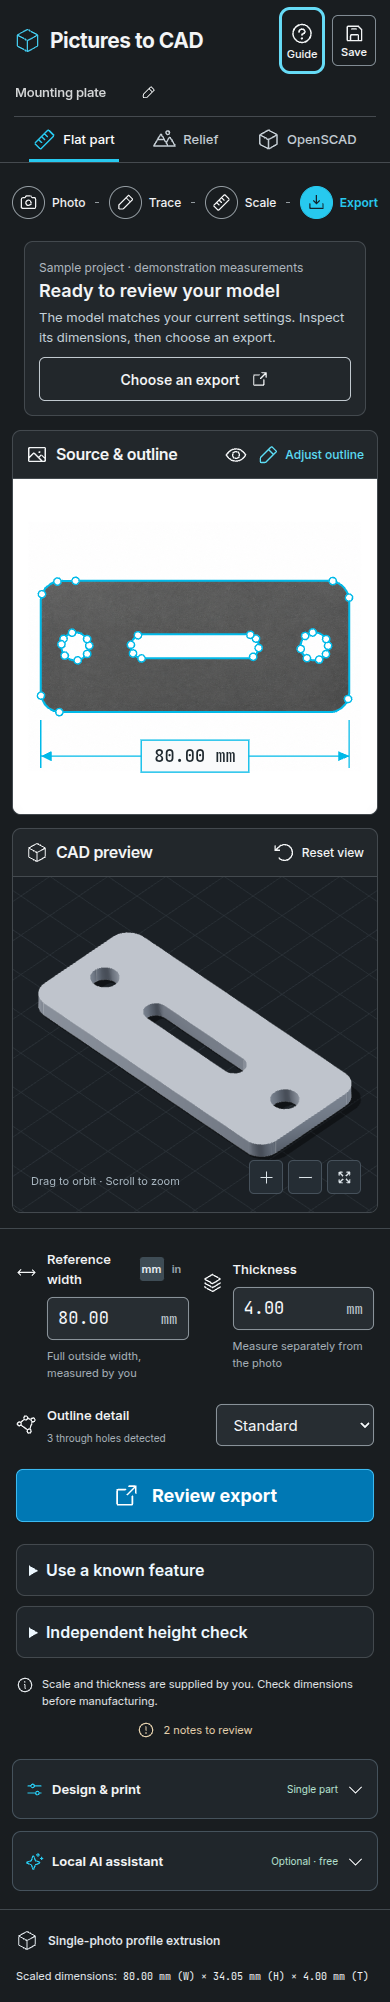
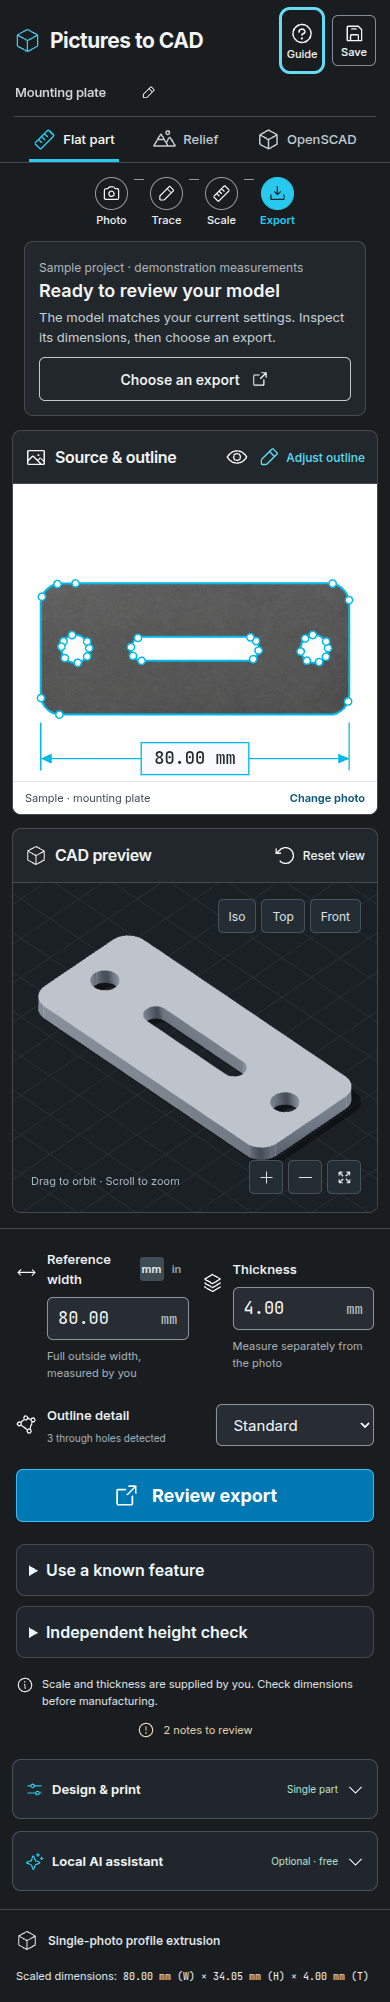
Stop the narrowest phones scrolling sideways
At 320 px the step bar ran 18 px past the screen and the source panel's
Adjust outline button 6 px past its panel. At 400 px and below, step labels
sit under their icons and panel toolbars wrap. The phone-layout scenario
checks 320 and 360 px for any element past the screen edge; it fails on the
previous stylesheet and passes with the fix.

diff --git a/tests/e2e/workbench.spec.ts b/tests/e2e/workbench.spec.ts
@@ -198,6 +198,27 @@ test('keyboard dialogs, accessibility checks, and mobile layout keep the workflo
     true,
   );
   await page.screenshot({ path: 'docs/images/workbench-mobile.png', fullPage: true });
+  // On the narrowest phones nothing may run past the screen edge, even where a panel
+  // would clip it: the step bar puts labels under icons and toolbars wrap. The 3D canvas
+  // follows the window a frame later, so the check polls until the layout settles.
+  for (const width of [320, 360]) {
+    await page.setViewportSize({ width, height: 800 });
+    await expect
+      .poll(
+        () =>
+          page.evaluate(() =>
+            [...document.querySelectorAll('body *')]
+              .filter(
+                (e) =>
+                  e.getClientRects().length && e.getBoundingClientRect().right > innerWidth + 0.5,
+              )
+              .map((e) => `${e.tagName}.${e.getAttribute('class') ?? ''}`),
+          ),
+        { message: `elements past the edge at ${width}px` },
+      )
+      .toEqual([]);
+  }
+  await page.setViewportSize({ width: 390, height: 844 });
   await page.getByRole('button', { name: 'Review export', exact: true }).click();
   await expect(page.getByRole('dialog')).toBeVisible();
   expect(await page.evaluate(() => document.documentElement.scrollWidth <= window.innerWidth)).toBe(

diff --git a/frontend/src/styles.css b/frontend/src/styles.css
@@ -2577,3 +2577,27 @@ main {
   font-weight: 600;
   cursor: pointer;
 }
+/* The narrowest phones: each step's label goes under its icon so the four steps fit. */
+@media (max-width: 400px) {
+  .workflow {
+    gap: 6px;
+  }
+  .workflow-step {
+    flex-direction: column;
+    gap: 3px;
+    font-size: 11px;
+  }
+  .step-line {
+    width: 10px;
+    align-self: flex-start;
+    margin-top: 16px;
+  }
+  /* Panel toolbars wrap their actions onto a second line rather than run off the panel. */
+  .panel-toolbar {
+    height: auto;
+    min-height: 52px;
+    flex-wrap: wrap;
+    row-gap: 4px;
+    padding: 8px 12px;
+  }
+}

diff --git a/docs/validation.md b/docs/validation.md
@@ -1,12 +1,20 @@
 # Validation results
 
+## Narrowest phones no longer scroll sideways — November 15, 2026
+
+Frontend CSS only.
+
+- **Measured** with a script on the workbench and the relief studio at 320, 340, 360, 375, 400 and 414 px. Before: at 320 px the step bar's active step reached 338 px and the source panel's **Adjust outline** reached 326 px. After: no element extends past the screen at any of these widths.
+- **Browser:** the phone-layout scenario now checks 320 and 360 px for any element past the screen edge. It polls, because the 3D canvas follows a resize a frame later. With the previous stylesheet it fails, naming the step bar and the panel actions; with the fix it passes. All **83 Chrome scenarios** passed against a dedicated server in 8.4 minutes (1 skipped: it needs the downloaded AI depth model), and `make lint` passed.
+- **Screenshot:** `docs/images/workbench-mobile.png` (390 px) now shows the step labels under their icons.
+
 ## One header, a sample gallery and automatic relief updates — November 15, 2026
 
 Frontend only; no backend code changed.
 
 - **Browser:** all **83 Chrome scenarios** passed against a dedicated server in 7.1 minutes (1 skipped: it needs the downloaded AI depth model). Two scenarios are new. One checks both studios' header at 1920, 1366, 1280, 1251, 1100, 1001, 800 and 375 px: no header overflow, the project name not clipped, every header link and button showing a visible text label, the current studio marked, the sample gallery's four cards and captions, the thumbnails loaded, and axe WCAG 2.1 AA. The other answers the first relief request with a 429 and `Retry-After: 1`, and checks that the page waits, retries once and builds without an error.
 - **Changed scenarios:** the moon-sample scenario now edits Thickest and waits for the automatic rebuild instead of pressing **Update model**. It also checks that the superseded model's `DELETE` returns 204. The elevation scenario checks that a rejected exaggeration is requested exactly once in a 2 s wait, and that **Update model** stays available.
-- **Header measurement** before the fix: at 800 px the workbench name read "Mounti…", and with the first version of the tabs it was clipped at 1100–1440 px and again at 1251 px. A measuring script found no clipping or overflow at 18 widths from 2560 to 375 px after the fix. The workflow stepper below the header still overflows by 18 px at 320 px; that is unchanged by this work.
+- **Header measurement** before the fix: at 800 px the workbench name read "Mounti…", and with the first version of the tabs it was clipped at 1100–1440 px and again at 1251 px. A measuring script found no clipping or overflow at 18 widths from 2560 to 375 px after the fix. The workflow stepper below the header still overflowed by 18 px at 320 px; the next entry fixes it.
 - **Python:** **1,382 tests** passed and 2 were skipped, in 7.0 minutes. The 13 tests that launch Blender could not run in this session: snap Blender refused to start (`snap-confine … cap_dac_override not found`), and `blender --version` and `main` fail the same way. CI has no Blender and skips them. No backend or Blender code changed. `make lint` passed Ruff and Prettier.
 - **Screenshots:** the browser suite regenerated `docs/images/workbench.png`, `workbench-mobile.png`, `relief.png` and `relief-sphere.png`, which now show the new header. The other hand-captured workbench images still show the old header.
 

diff --git a/docs/changelog.md b/docs/changelog.md
@@ -1,5 +1,13 @@
 # Workbench change log
 
+## Narrowest phones no longer scroll sideways — November 15, 2026
+
+- At 320 px the Photo/Trace/Scale/Export step bar ran 18 px past the screen, and the
+  **Adjust outline** button ran 6 px past its panel. At 400 px and below, each step's label
+  now sits under its icon and panel toolbars wrap their actions onto a second line. The
+  phone-layout browser scenario checks at 320 and 360 px that no element extends past the
+  screen edge. Against the previous stylesheet it fails on the step bar and the toolbar.
+
 ## One header for both studios, a sample gallery and automatic relief updates — November 15, 2026
 
 - The flat-part workbench and the relief studio share one header (`frontend/src/AppHeader.tsx`).
